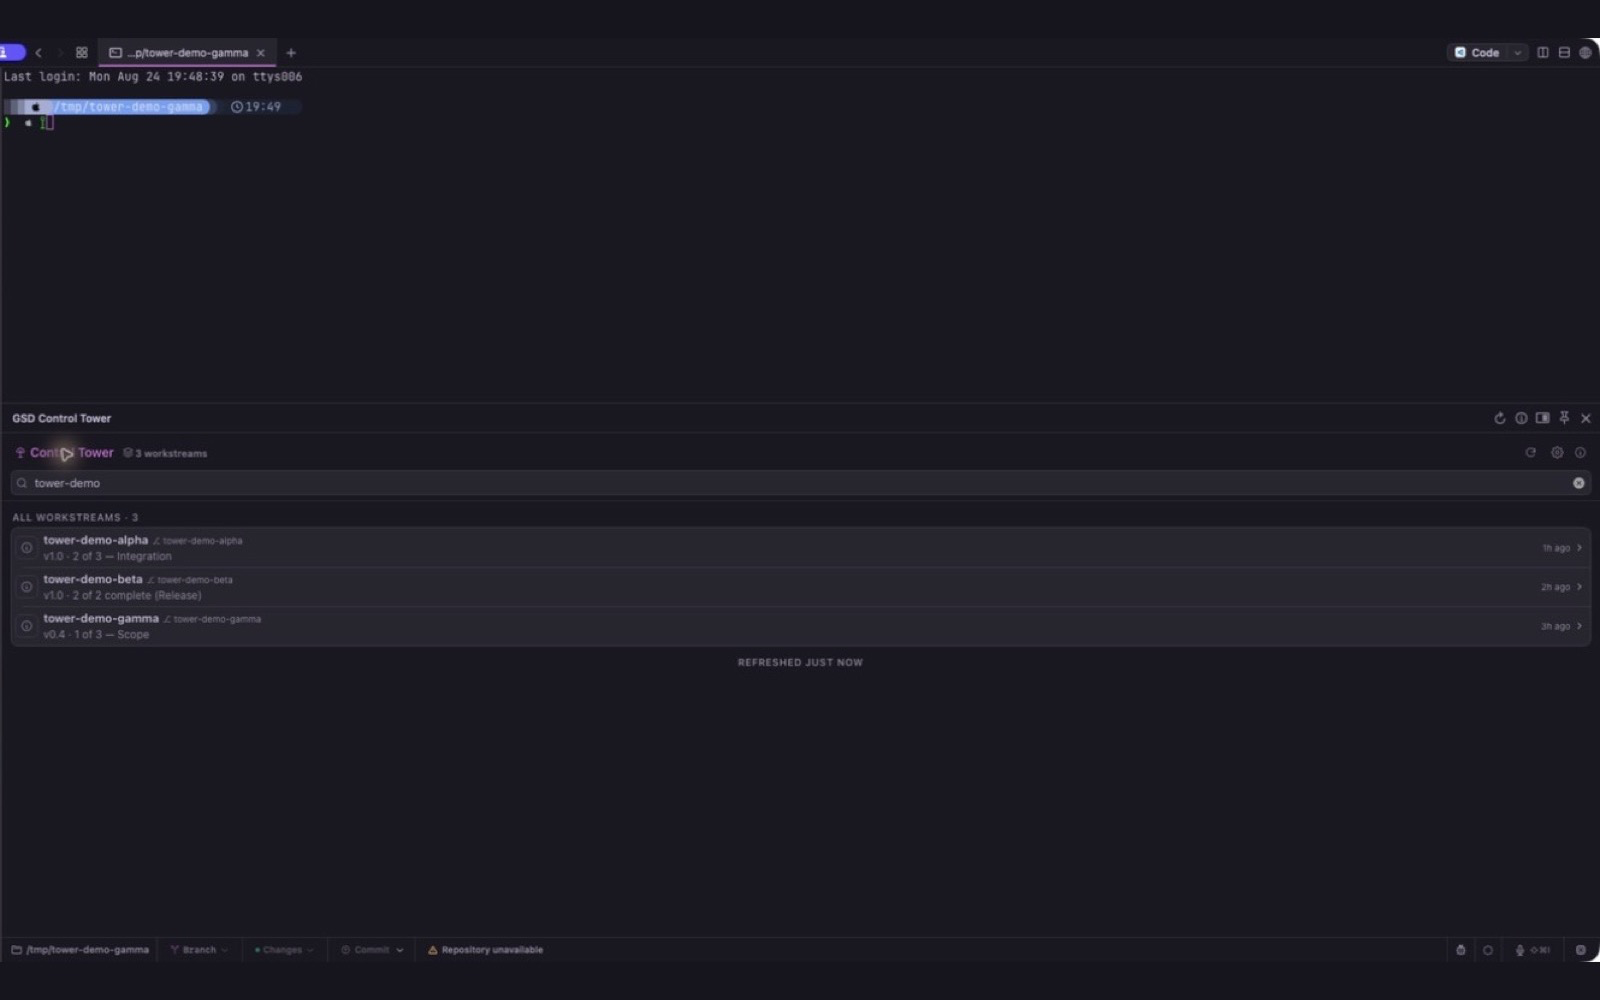
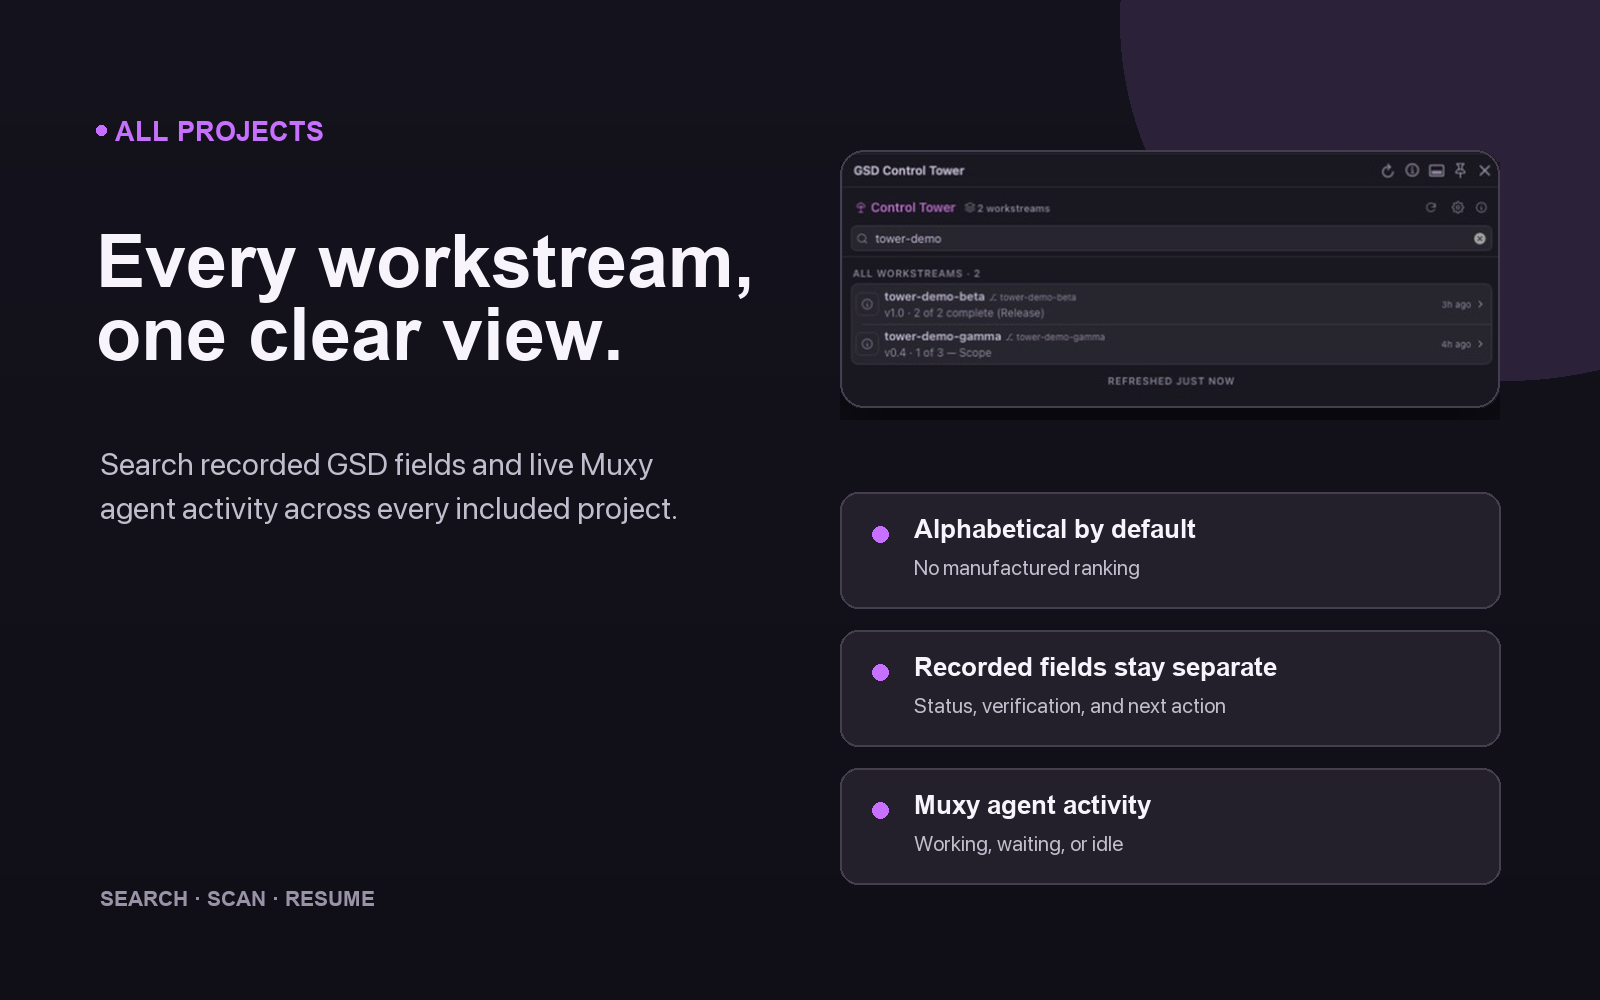
docs: polish marketplace screenshots

diff --git a/artwork/render-listing-assets.py b/artwork/render-listing-assets.py
@@ -1,0 +1,172 @@
+#!/usr/bin/env python3
+"""Render README and marketplace graphics from genuine right-panel captures."""
+
+from __future__ import annotations
+
+import argparse
+from pathlib import Path
+
+from PIL import Image, ImageDraw, ImageFilter, ImageFont
+
+
+ROOT = Path(__file__).resolve().parents[1]
+FONT = "/System/Library/Fonts/SFNS.ttf"
+FONT_BOLD = "/System/Library/Fonts/Supplemental/Arial Bold.ttf"
+
+BG = (20, 18, 28)
+BG_DEEP = (16, 15, 23)
+FG = (247, 244, 252)
+MUTED = (194, 189, 205)
+ACCENT = (199, 112, 255)
+ACCENT_SOFT = (47, 36, 61)
+BORDER = (68, 62, 78)
+
+
+def font(size: int, bold: bool = False) -> ImageFont.FreeTypeFont:
+    return ImageFont.truetype(FONT_BOLD if bold else FONT, size=size)
+
+
+def background(size: tuple[int, int]) -> Image.Image:
+    width, height = size
+    image = Image.new("RGB", size, BG)
+    draw = ImageDraw.Draw(image)
+    for y in range(height):
+        mix = y / max(height - 1, 1)
+        color = tuple(round(BG[i] * (1 - mix) + BG_DEEP[i] * mix) for i in range(3))
+        draw.line((0, y, width, y), fill=color)
+    draw.ellipse((width * .70, -height * .34, width * 1.18, height * .38), fill=(43, 34, 57))
+    return image
+
+
+def rounded_capture(canvas: Image.Image, capture: Image.Image, box: tuple[int, int, int, int], radius: int) -> None:
+    x, y, width, height = box
+    fitted = capture.resize((width, height), Image.Resampling.LANCZOS)
+    mask = Image.new("L", (width, height), 0)
+    ImageDraw.Draw(mask).rounded_rectangle((0, 0, width, height), radius=radius, fill=255)
+
+    shadow = Image.new("RGBA", canvas.size, (0, 0, 0, 0))
+    shadow_shape = Image.new("L", (width, height), 0)
+    ImageDraw.Draw(shadow_shape).rounded_rectangle((0, 0, width, height), radius=radius, fill=190)
+    shadow_shape = shadow_shape.filter(ImageFilter.GaussianBlur(max(10, radius)))
+    shadow.paste((0, 0, 0, 175), (x, y + max(8, radius // 2)), shadow_shape)
+    canvas.paste(shadow, (0, 0), shadow)
+    canvas.paste(fitted, (x, y), mask)
+    ImageDraw.Draw(canvas).rounded_rectangle((x, y, x + width - 1, y + height - 1), radius=radius, outline=BORDER, width=2)
+
+
+def label(draw: ImageDraw.ImageDraw, xy: tuple[int, int], text: str, size: int) -> None:
+    x, y = xy
+    draw.ellipse((x, y + size * .35, x + size * .38, y + size * .73), fill=ACCENT)
+    draw.text((x + size * .72, y), text, font=font(size, True), fill=ACCENT)
+
+
+def pill(draw: ImageDraw.ImageDraw, box: tuple[int, int, int, int], text: str, size: int) -> None:
+    x, y, width, height = box
+    draw.rounded_rectangle((x, y, x + width, y + height), radius=height // 4, fill=ACCENT_SOFT, outline=BORDER, width=2)
+    dot = max(7, size // 3)
+    draw.ellipse((x + height * .34, y + (height - dot) / 2, x + height * .34 + dot, y + (height + dot) / 2), fill=ACCENT)
+    draw.text((x + height * .70, y + (height - size) / 2 - size * .12), text, font=font(size, True), fill=FG)
+
+
+def crop_project(source: Image.Image) -> Image.Image:
+    return source.crop((819, 24, 1360, 746))
+
+
+def crop_list(source: Image.Image) -> Image.Image:
+    return source.crop((819, 24, 1360, 235))
+
+
+def marketplace_project(capture: Image.Image) -> Image.Image:
+    image = background((1600, 1000))
+    draw = ImageDraw.Draw(image)
+    label(draw, (96, 116), "GSD CONTROL TOWER", 27)
+    draw.multiline_text((96, 220), "Pick up where\nGSD left off.", font=font(78, True), fill=FG, spacing=6)
+    draw.multiline_text(
+        (100, 445),
+        "Recorded next action, phase progress,\nverification, and agent activity — in one panel.",
+        font=font(31), fill=MUTED, spacing=14,
+    )
+    pill(draw, (100, 682, 510, 76), "Read-only · recorded state", 26)
+    draw.text((100, 886), "NEXT ACTION · PHASES · VERIFICATION", font=font(21, True), fill=(154, 147, 168))
+    rounded_capture(image, capture, (892, 72, 608, 812), 30)
+    return image
+
+
+def marketplace_list(capture: Image.Image) -> Image.Image:
+    image = background((1600, 1000))
+    draw = ImageDraw.Draw(image)
+    label(draw, (96, 116), "ALL PROJECTS", 27)
+    draw.multiline_text((96, 220), "Every workstream,\none clear view.", font=font(74, True), fill=FG, spacing=6)
+    draw.multiline_text(
+        (100, 445),
+        "Search recorded GSD fields and live Muxy\nagent activity across every included project.",
+        font=font(31), fill=MUTED, spacing=14,
+    )
+    rounded_capture(image, capture, (840, 150, 660, 258), 24)
+
+    cards = [
+        ("Alphabetical by default", "No manufactured ranking"),
+        ("Recorded fields stay separate", "Status, verification, and next action"),
+        ("Muxy agent activity", "Working, waiting, or idle"),
+    ]
+    y = 492
+    for title, description in cards:
+        draw.rounded_rectangle((840, y, 1500, y + 116), radius=18, fill=(35, 32, 43), outline=BORDER, width=2)
+        draw.ellipse((872, y + 34, 888, y + 50), fill=ACCENT)
+        draw.text((914, y + 22), title, font=font(26, True), fill=FG)
+        draw.text((914, y + 62), description, font=font(21), fill=MUTED)
+        y += 138
+    draw.text((100, 886), "SEARCH · SCAN · RESUME", font=font(21, True), fill=(154, 147, 168))
+    return image
+
+
+def readme_project(capture: Image.Image) -> Image.Image:
+    image = background((760, 475))
+    draw = ImageDraw.Draw(image)
+    label(draw, (48, 54), "CURRENT PROJECT", 13)
+    draw.multiline_text((48, 108), "Pick up where\nGSD left off.", font=font(38, True), fill=FG, spacing=2)
+    draw.multiline_text(
+        (48, 224),
+        "Recorded next action,\nphase progress, verification,\nand Muxy agent activity.",
+        font=font(17), fill=MUTED, spacing=7,
+    )
+    pill(draw, (48, 373, 294, 46), "Read-only · recorded state", 14)
+    rounded_capture(image, capture, (400, 12, 344, 459), 17)
+    return image
+
+
+def readme_list(capture: Image.Image) -> Image.Image:
+    image = background((760, 475))
+    draw = ImageDraw.Draw(image)
+    label(draw, (48, 43), "ALL PROJECTS", 13)
+    draw.multiline_text((48, 83), "Every workstream,\none clear view.", font=font(36, True), fill=FG, spacing=2)
+    draw.multiline_text(
+        (420, 91),
+        "Search recorded fields.\nScan alphabetical results.\nResume with context.",
+        font=font(16), fill=MUTED, spacing=7,
+    )
+    rounded_capture(image, capture, (48, 205, 664, 259), 15)
+    return image
+
+
+def save(image: Image.Image, path: Path) -> None:
+    path.parent.mkdir(parents=True, exist_ok=True)
+    image.convert("RGB").save(path, "PNG", optimize=True)
+
+
+def main() -> None:
+    parser = argparse.ArgumentParser()
+    parser.add_argument("--project-capture", type=Path, required=True)
+    parser.add_argument("--list-capture", type=Path, required=True)
+    args = parser.parse_args()
+
+    project = crop_project(Image.open(args.project_capture).convert("RGB"))
+    listing = crop_list(Image.open(args.list_capture).convert("RGB"))
+    save(marketplace_project(project), ROOT / "assets/screenshots/screenshot-1.png")
+    save(marketplace_list(listing), ROOT / "assets/screenshots/screenshot-2.png")
+    save(readme_project(project), ROOT / "assets/readme/active-project.png")
+    save(readme_list(listing), ROOT / "assets/readme/all-projects.png")
+
+
+if __name__ == "__main__":
+    main()
